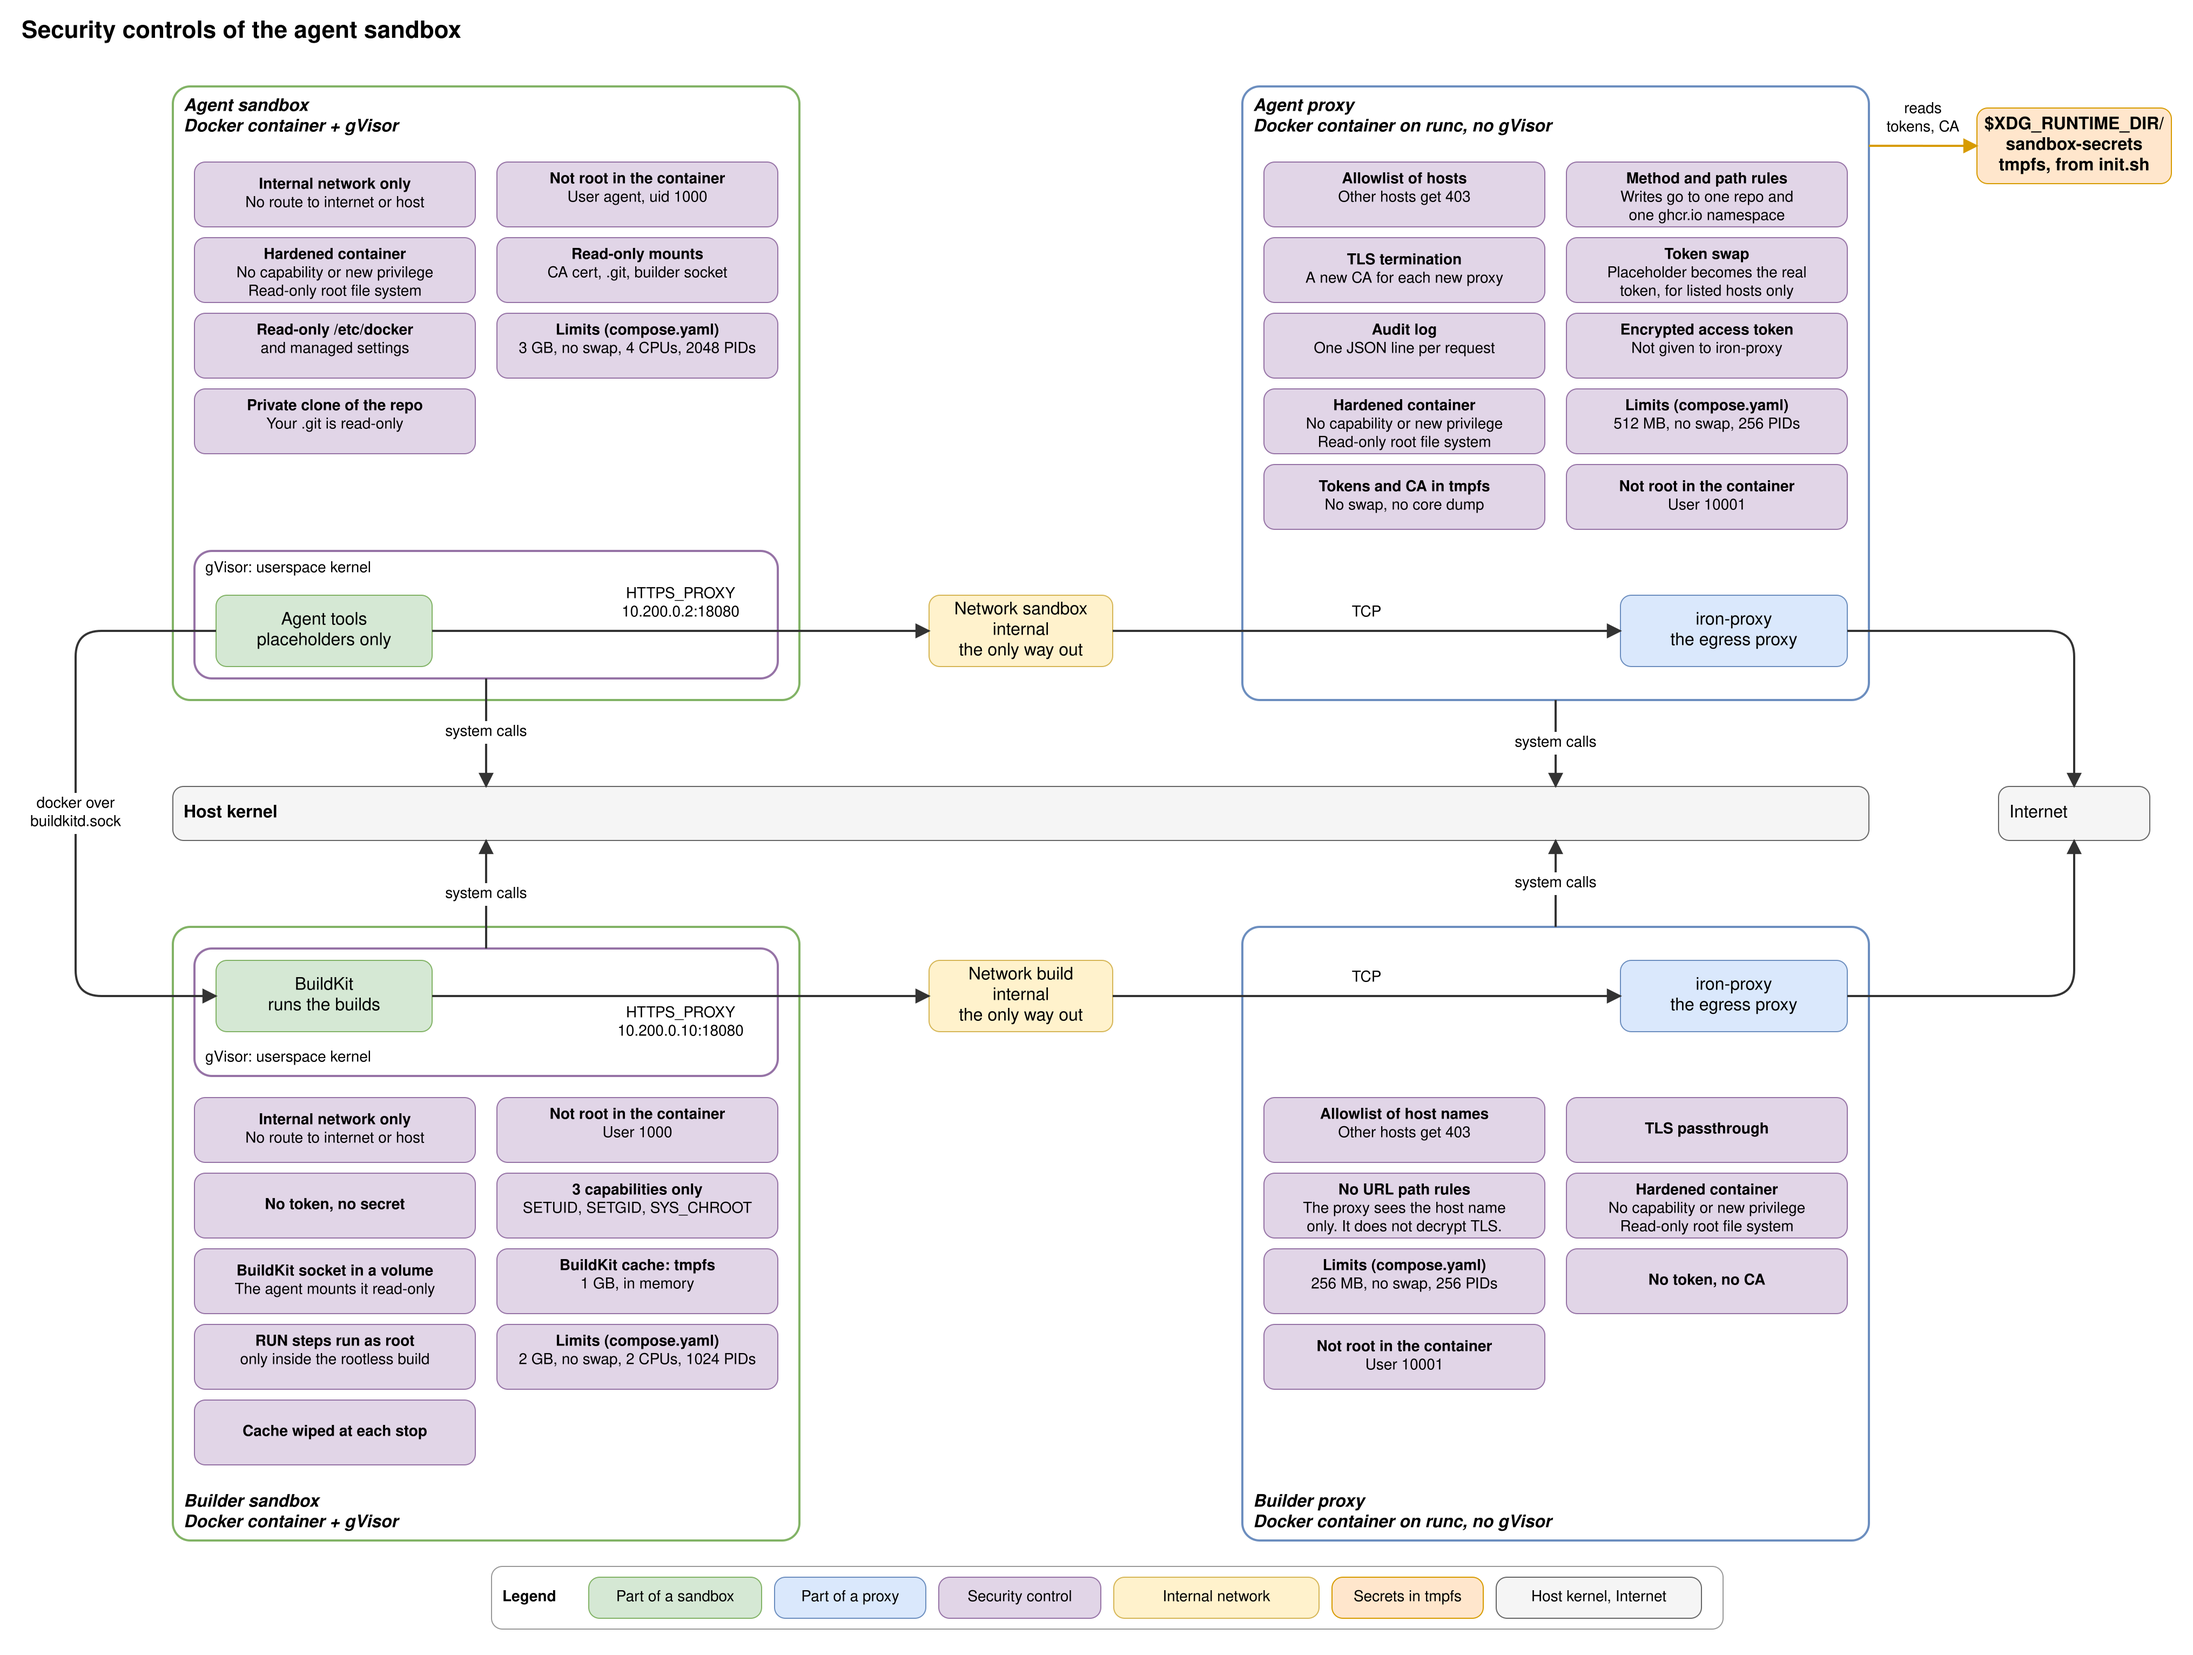
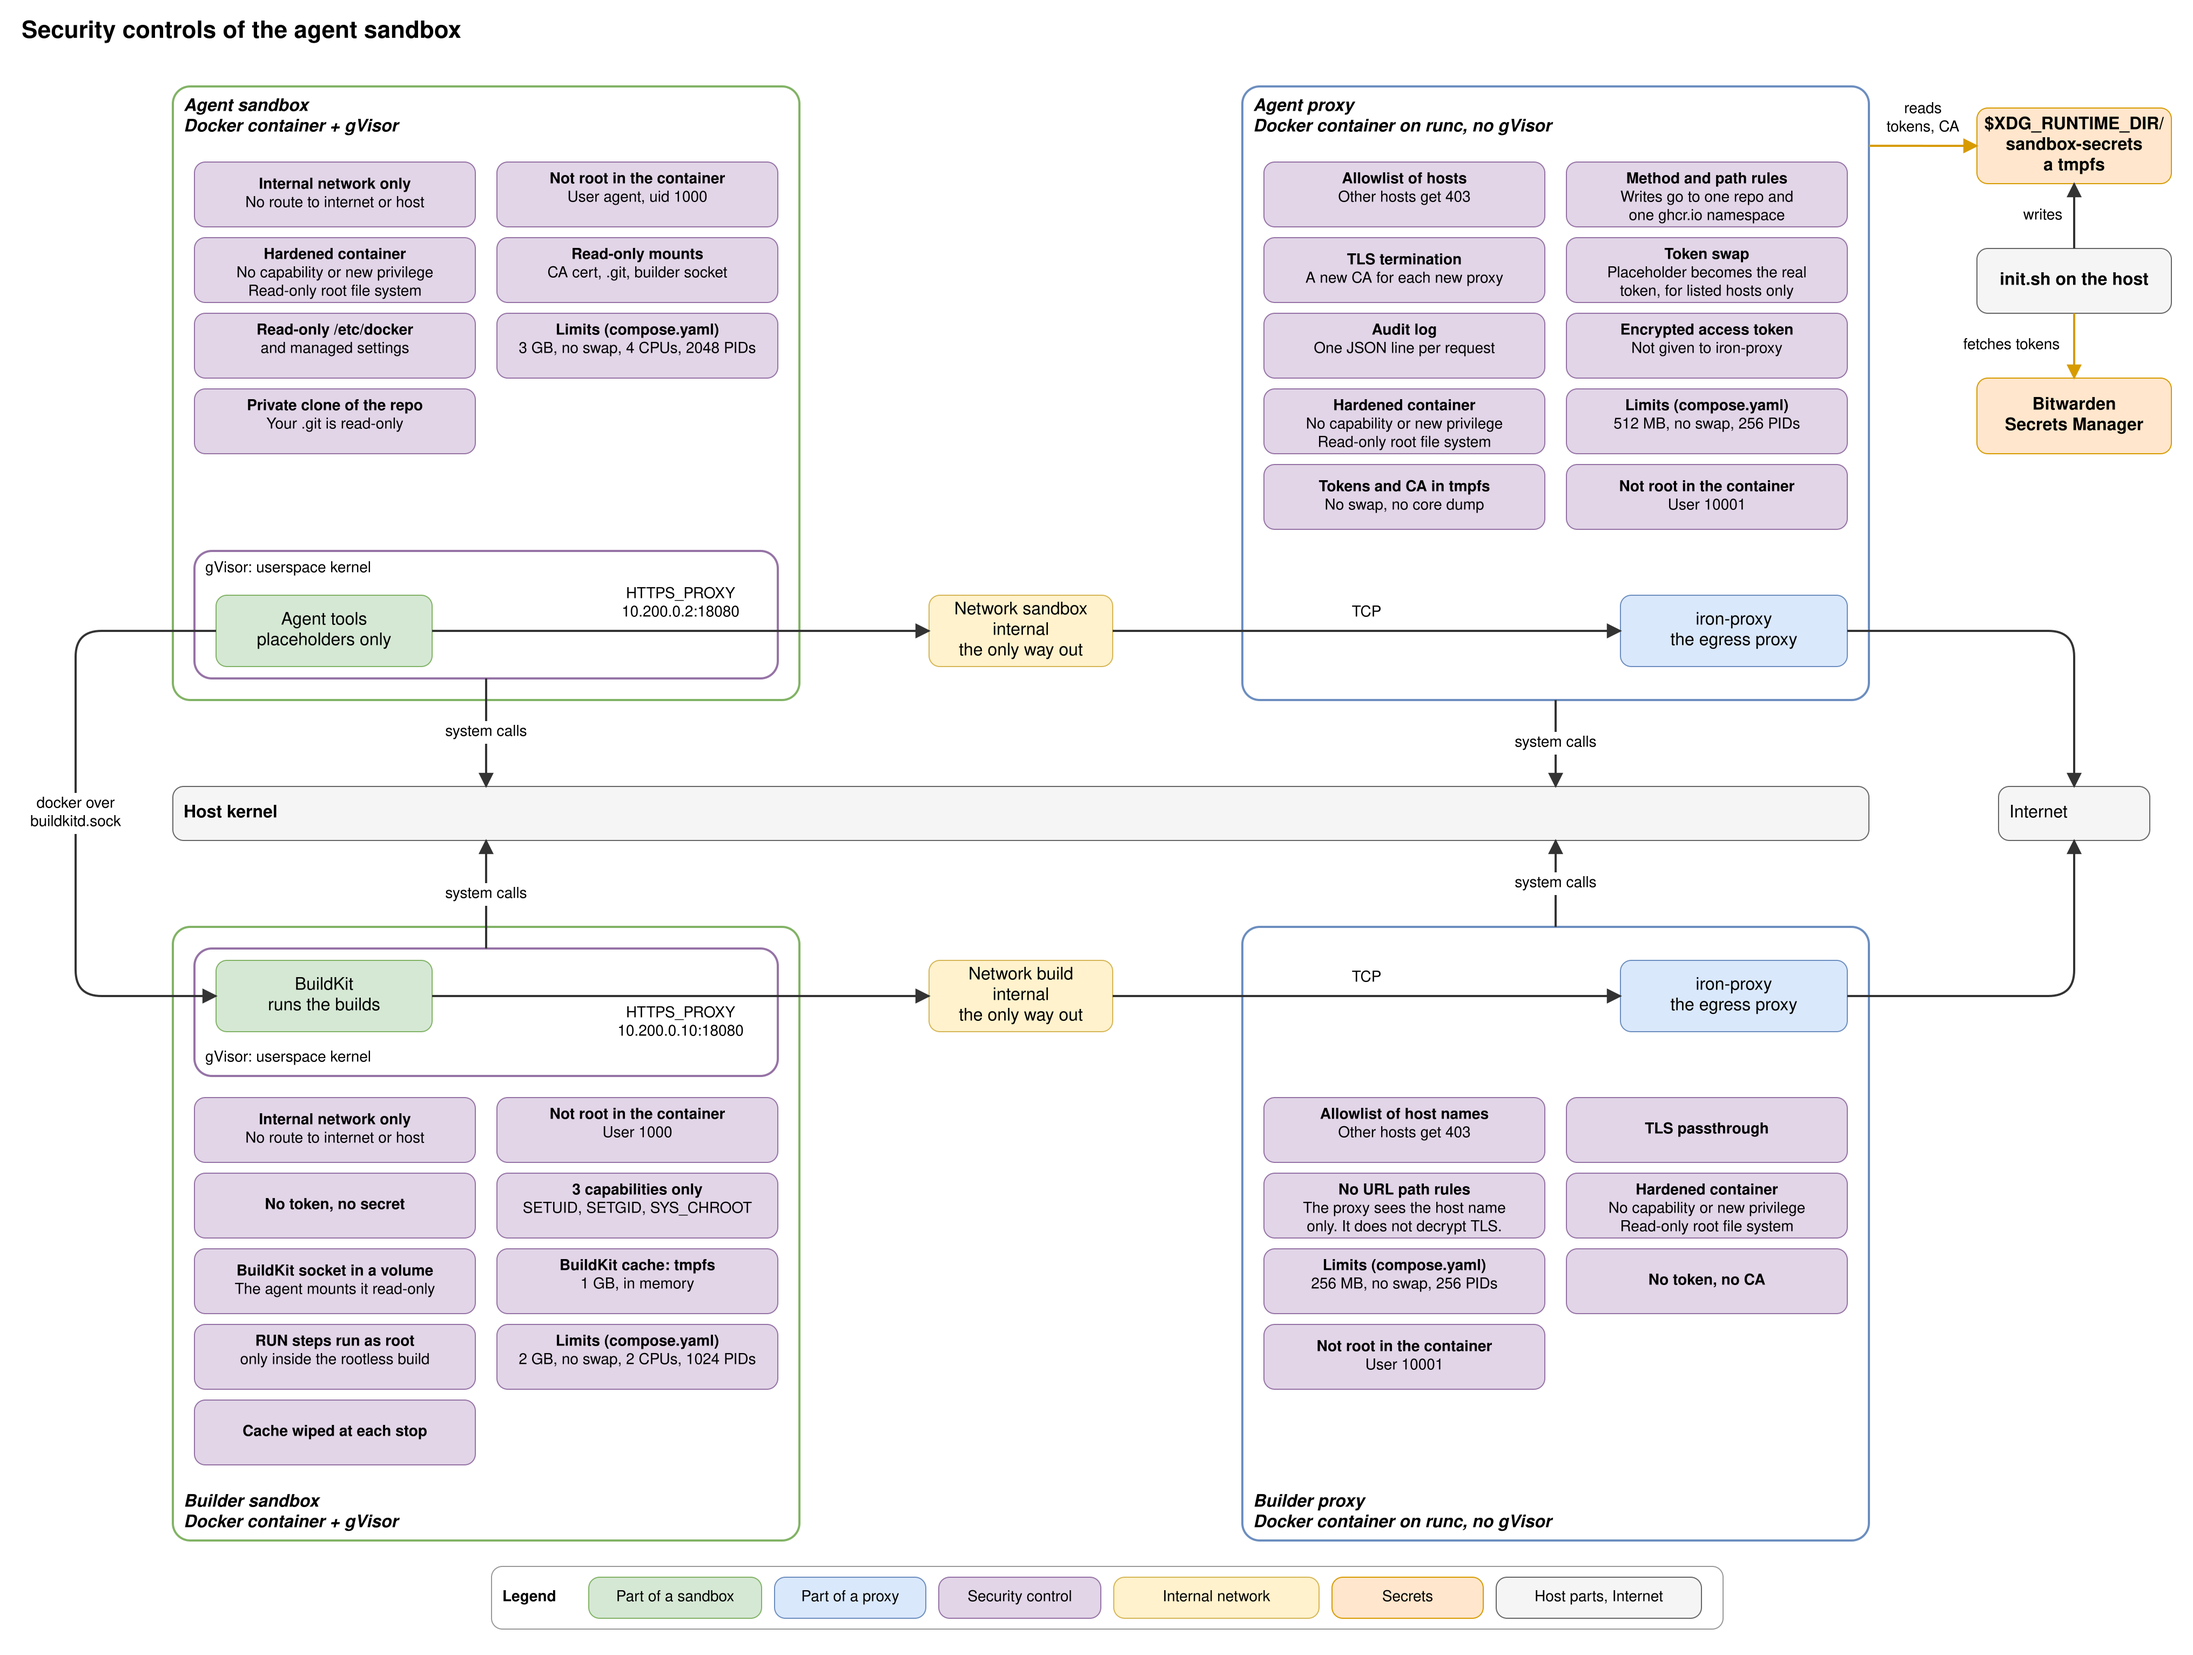
docs: Bitwarden and init.sh in the security controls diagram
The diagram now shows where the tokens come from: init.sh fetches them
from Bitwarden and writes the tmpfs folder that the agent proxy reads.

diff --git a/.devcontainer/docs/diagrams/README.md b/.devcontainer/docs/diagrams/README.md
@@ -5,7 +5,7 @@
 | `architecture.drawio` | Source of the architecture diagram. Shows the host, the two internal Docker networks and the Internet. On the host: Bitwarden, `init.sh`, the tmpfs folder `$XDG_RUNTIME_DIR/sandbox-secrets`, your terminal and the repo. Both arrows from that folder go straight down. The network `sandbox` holds the agent container and the agent proxy. The network `build` holds the builder container and the builder proxy. Each gVisor container is two nested boxes: the Docker container with its IP and limits, then gVisor. The volume `buildkit-sock` sits between the two networks. It is the only link between the agent and the builder. Each proxy reaches the Internet on the Compose network `default`. |
 | `architecture.svg` | The diagram as a plain SVG with real `<text>` elements and a white background. Drawn from the coordinates of the `.drawio` file. |
 | `architecture.png` | The PNG of the SVG, 2x with a white background. |
-| `security-controls.drawio` | Source of the security controls diagram. Two lanes mirror each other around a `Host kernel` box: the agent sandbox above it and the builder below it. Each lane goes from the sandbox through its internal network to a proxy container and the Internet. A legend at the bottom names the colors. Each arrow is straight or has right-angle bends with rounded corners (`curved=0`). The diagram is the list of controls in the section "Security controls" of `../../README.md`. When you edit it, keep the lanes mirrored in size, position and layout. Keep each title 10 px from the left edge and 8 px from the outer edge. Keep each arrow label 8 px from its line and each arrow 2 px thick. |
+| `security-controls.drawio` | Source of the security controls diagram. Two lanes mirror each other around a `Host kernel` box: the agent sandbox above it and the builder below it. Each lane goes from the sandbox through its internal network to a proxy container and the Internet. At the top right, `init.sh` fetches the tokens from Bitwarden and writes the tmpfs folder, and the agent proxy reads that folder. Each arrow starts at the part that acts. A legend at the bottom names the colors. Each arrow is straight or has right-angle bends with rounded corners (`curved=0`). The diagram is the list of controls in the section "Security controls" of `../../README.md`. When you edit it, keep the lanes mirrored in size, position and layout. Keep each title 10 px from the left edge and 8 px from the outer edge. Keep each arrow label 8 px from its line and each arrow 2 px thick. |
 | `security-controls.svg` | The security controls diagram as a plain SVG, drawn in the same way. |
 | `security-controls.png` | The PNG of that SVG, 2x with a white background. |
 | `concepts.drawio` | Source of the concepts diagram, titled "How to design an agent sandbox". It shows the six numbered concepts of the design pattern: 1 the wall, 2 the workspace, 3 the network gate, 4 the key holder, 5 the saved state and 6 you. Keep each label generic, so the diagram applies to any agent sandbox. The names of this sandbox go in the table under the diagram in `../../README.md`. A grey box is the host computer. In it, a thick blue box is the wall: a user-space kernel or a microVM. The wall holds the agent, the software, the workspace and the saved state in a 2x2 grid. The network gate and the key holder are on the host, outside the wall. Each arrow is a straight line between the centers of two box sides. |
